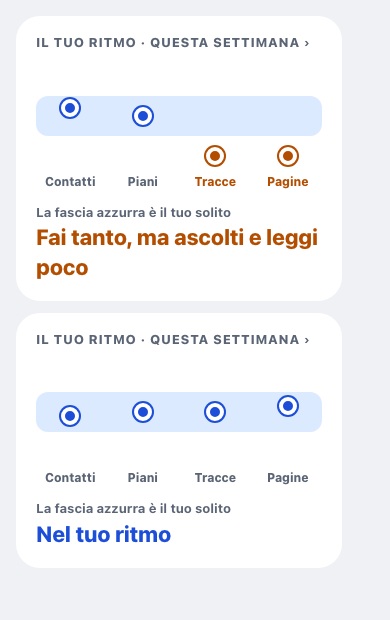
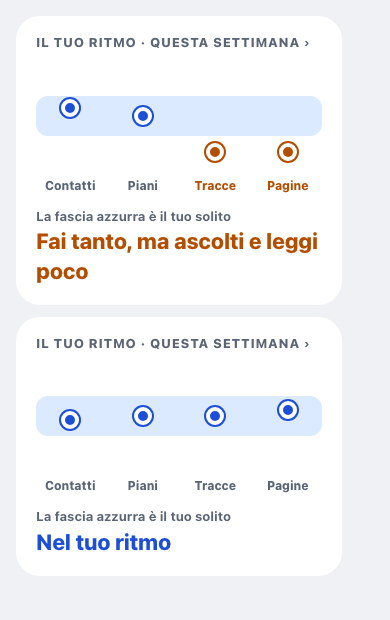
Pagine 148, pezzo 5, ritocco (Regia 29/10): in «Il tuo ritmo» un pallino molto sopra o molto sotto la fascia si ferma a 14 e a 86 (stessa aria sopra e sotto) e c'è più spazio prima delle scritte, così non le tocca più; prove al banco; foto rifatta con dati finti

diff --git a/pagina-oggi.js b/pagina-oggi.js
@@ -164,8 +164,9 @@ function o5Ritmo() {
 function o5RitmoHtml(r) {
   const tit = '<span class="o5-gn-tit">IL TUO RITMO · QUESTA SETTIMANA ›</span>';
   if (!r) return `<button class="o5-ritmo" data-o5="mese" aria-label="Il tuo ritmo">${tit}<span class="o5-gn-frase">Leggo il tuo ritmo…</span></button>`;
-  // l'altezza del pallino: al centro il solito, i bordi della fascia a 3/4 e 1 volta e 1/4 (fascia da 30 a 70 su 100)
-  const su = v => (!r.storia ? 50 : v.solito === 0 ? (v.ora > 0 ? 12 : 50) : Math.max(10, Math.min(90, 50 - (v.ora / v.solito - 1) * 80)));
+  // l'altezza del pallino: al centro il solito, i bordi della fascia a 3/4 e 1 volta e 1/4 (fascia da 30 a 70 su 100); molto sopra o molto sotto si ferma
+  // a 14 e a 86, con la stessa aria sopra e sotto la fascia, lontano dalle scritte (Regia 29/10)
+  const su = v => (!r.storia ? 50 : v.solito === 0 ? (v.ora > 0 ? 14 : 50) : Math.max(14, Math.min(86, 50 - (v.ora / v.solito - 1) * 80)));
   const frase = fraseRitmo(r), fuori = r.storia && r.voci.some(v => v.dove !== 'dentro');
   const uno = v => `<span class="o5-rt-uno${r.storia && v.dove !== 'dentro' ? ' fuori' : ''}"><span class="o5-rt-asse"><i style="top:${Math.round(su(v))}px"></i></span><small>${esc(v.nome)}</small></span>`;
   return `<button class="o5-ritmo" data-o5="mese" aria-label="Il tuo ritmo questa settimana: ${esc(frase)}">${tit}<span class="o5-rt-pallini">${r.storia ? '<span class="o5-rt-fascia"></span>' : ''}${r.voci.map(uno).join('')}</span>

diff --git a/index.html b/index.html
@@ -2492,7 +2492,7 @@
   .o5-ritmo { width: 100%; border: 0; font: inherit; text-align: left; cursor: pointer; background: #fff; color: #10151F; border-radius: 24px; padding: 18px 20px; display: flex; flex-direction: column; gap: 14px; }
   .o5-rt-pallini { position: relative; display: grid; grid-template-columns: repeat(4, minmax(0, 1fr)); gap: 4px; }
   .o5-rt-fascia { position: absolute; left: 0; right: 0; top: 30px; height: 40px; border-radius: 12px; background: #DBEAFE; }
-  .o5-rt-uno { position: relative; display: flex; flex-direction: column; align-items: center; gap: 8px; }
+  .o5-rt-uno { position: relative; display: flex; flex-direction: column; align-items: center; gap: 12px; }
   .o5-rt-asse { position: relative; width: 100%; height: 100px; }
   .o5-rt-asse i { position: absolute; left: 50%; width: 18px; height: 18px; margin: -9px 0 0 -9px; border-radius: 50%; background: #1D4ED8; border: 4px solid #fff; box-shadow: 0 0 0 2px #1D4ED8; box-sizing: border-box; }
   .o5-rt-uno small { font-size: 12px; font-weight: 800; color: #5A6475; text-align: center; }

diff --git a/tools/banco/prova_oggi_v5.js b/tools/banco/prova_oggi_v5.js
@@ -672,7 +672,7 @@ prova('148, pezzo 5: «Il tuo ritmo» — Contatti, Piani, Tracce e Pagine degli
   assert.equal((h.match(/o5-rt-uno fuori/g) || []).length, 2);
   assert.match(h, /<b class="fuori">/);
   // il pallino: al centro il solito (Contatti 21 su 20 → un po' sopra il centro; Piani 2 su 2 al centro), fuori più in basso (fino al bordo)
-  assert.deepEqual([...h.matchAll(/top:(\d+)px/g)].map(x => Number(x[1])), [46, 50, 90, 90]);   // Tracce 2 su 7 e Pagine 10 su 70: in fondo
+  assert.deepEqual([...h.matchAll(/top:(\d+)px/g)].map(x => Number(x[1])), [46, 50, 86, 86]);   // Tracce 2 su 7 e Pagine 10 su 70: in fondo, ma lontano dalle scritte (si ferma a 86, come sopra a 14)
   W.app.clic('[data-o5="mese"]'); assert.deepEqual(JSON.parse(JSON.stringify(W.vai)), [['lv', 'mese', null]]);
   const R = W.ctx;
   const frase = ora => R.fraseRitmo(R.ritmoSettimana(giorni(ora), OGGI));
